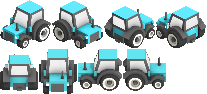
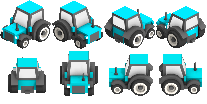
Enemy gatherer & scout sprites fixed
basically the same I did for the allied ones

diff --git a/Source/Motor2D/EnemyScout.cpp b/Source/Motor2D/EnemyScout.cpp
@@ -204,17 +204,64 @@ void EnemyScout::AttachHealthbarToEntity()
 
 void EnemyScout::InitUnitSpriteSections()
 {
-	entity_sprite_section = { 58, 0, 58, 47 };						//Down Right
+	//entity_sprite_section = { 58, 0, 58, 47 };						//Down Right
 
-	pathing_up_section = { 0, 47, 70, 52 };
-	pathing_down_section = { 71, 47, 70, 52 };
-	pathing_rigth_section = { 202, 47, 59, 52 };
-	pathing_left_section = { 142, 47, 59, 52 };
-	pathing_up_right_section = { 116, 0, 60, 47 };
-	pathing_up_left_section = { 176, 0, 59, 47 };
-	pathing_down_right_section = { 58, 0, 58, 47 };
-	pathing_down_left_section = { 0, 0, 58, 47 };
+	//pathing_up_section = { 0, 47, 70, 52 };
+	//pathing_down_section = { 71, 47, 70, 52 };
+	//pathing_rigth_section = { 202, 47, 59, 52 };
+	//pathing_left_section = { 142, 47, 59, 52 };
+	//pathing_up_right_section = { 116, 0, 60, 47 };
+	//pathing_up_left_section = { 176, 0, 59, 47 };
+	//pathing_down_right_section = { 58, 0, 58, 47 };
+	//pathing_down_left_section = { 0, 0, 58, 47 };
+
+	//	 --- LOADING FROM XML ---
+	pugi::xml_node sections = App->entities_file.child("entities").child("units").child("enemies").child("scout").child("sprite_sections");
+
+	pathing_up_section.x = sections.child("pathing_up").attribute("x").as_int();
+	pathing_up_section.y = sections.child("pathing_up").attribute("y").as_int();
+	pathing_up_section.w = sections.child("pathing_up").attribute("w").as_int();
+	pathing_up_section.h = sections.child("pathing_up").attribute("h").as_int();
+
+	pathing_down_section.x = sections.child("pathing_down").attribute("x").as_int();
+	pathing_down_section.y = sections.child("pathing_down").attribute("y").as_int();
+	pathing_down_section.w = sections.child("pathing_down").attribute("w").as_int();
+	pathing_down_section.h = sections.child("pathing_down").attribute("h").as_int();
+
+	pathing_rigth_section.x = sections.child("pathing_right").attribute("x").as_int();
+	pathing_rigth_section.y = sections.child("pathing_right").attribute("y").as_int();
+	pathing_rigth_section.w = sections.child("pathing_right").attribute("w").as_int();
+	pathing_rigth_section.h = sections.child("pathing_right").attribute("h").as_int();
+
+	pathing_left_section.x = sections.child("pathing_left").attribute("x").as_int();
+	pathing_left_section.y = sections.child("pathing_left").attribute("y").as_int();
+	pathing_left_section.w = sections.child("pathing_left").attribute("w").as_int();
+	pathing_left_section.h = sections.child("pathing_left").attribute("h").as_int();
+
+	pathing_up_right_section.x = sections.child("pathing_up_right").attribute("x").as_int();
+	pathing_up_right_section.y = sections.child("pathing_up_right").attribute("y").as_int();
+	pathing_up_right_section.w = sections.child("pathing_up_right").attribute("w").as_int();
+	pathing_up_right_section.h = sections.child("pathing_up_right").attribute("h").as_int();
+
+	pathing_up_left_section.x = sections.child("pathing_up_left").attribute("x").as_int();
+	pathing_up_left_section.y = sections.child("pathing_up_left").attribute("y").as_int();
+	pathing_up_left_section.w = sections.child("pathing_up_left").attribute("w").as_int();
+	pathing_up_left_section.h = sections.child("pathing_up_left").attribute("h").as_int();
+
+	pathing_down_right_section.x = sections.child("pathing_down_right").attribute("x").as_int();
+	pathing_down_right_section.y = sections.child("pathing_down_right").attribute("y").as_int();
+	pathing_down_right_section.w = sections.child("pathing_down_right").attribute("w").as_int();
+	pathing_down_right_section.h = sections.child("pathing_down_right").attribute("h").as_int();
+
+	pathing_down_left_section.x = sections.child("pathing_down_left").attribute("x").as_int();
+	pathing_down_left_section.y = sections.child("pathing_down_left").attribute("y").as_int();
+	pathing_down_left_section.w = sections.child("pathing_down_left").attribute("w").as_int();
+	pathing_down_left_section.h = sections.child("pathing_down_left").attribute("h").as_int();
+
+	//Default section
+	entity_sprite_section = pathing_down_right_section;
 }
+
 
 void EnemyScout::UpdateUnitSpriteSection()
 {

diff --git a/Source/Motor2D/EnemyGatherer.cpp b/Source/Motor2D/EnemyGatherer.cpp
@@ -193,7 +193,7 @@ void EnemyGatherer::AttachHealthbarToEntity()
 
 void EnemyGatherer::InitUnitSpriteSections()
 {
-	entity_sprite_section = { 52, 0, 52, 49 };
+	/*entity_sprite_section = { 52, 0, 52, 49 };
 
 	pathing_up_section = { 0, 49, 39, 42 };
 	pathing_down_section = { 39, 49, 38, 45 };
@@ -202,7 +202,53 @@ void EnemyGatherer::InitUnitSpriteSections()
 	pathing_up_right_section = { 104, 0, 52, 49 };
 	pathing_up_left_section = { 156, 0, 52, 49 };
 	pathing_down_right_section = { 52, 0, 52 ,49 };
-	pathing_down_left_section = { 0, 0, 52, 49 };
+	pathing_down_left_section = { 0, 0, 52, 49 };*/
+
+	//	 --- LOADING FROM XML ---
+	pugi::xml_node sections = App->entities_file.child("entities").child("units").child("enemies").child("gatherer").child("sprite_sections");
+
+	pathing_up_section.x = sections.child("pathing_up").attribute("x").as_int();
+	pathing_up_section.y = sections.child("pathing_up").attribute("y").as_int();
+	pathing_up_section.w = sections.child("pathing_up").attribute("w").as_int();
+	pathing_up_section.h = sections.child("pathing_up").attribute("h").as_int();
+
+	pathing_down_section.x = sections.child("pathing_down").attribute("x").as_int();
+	pathing_down_section.y = sections.child("pathing_down").attribute("y").as_int();
+	pathing_down_section.w = sections.child("pathing_down").attribute("w").as_int();
+	pathing_down_section.h = sections.child("pathing_down").attribute("h").as_int();
+
+	pathing_rigth_section.x = sections.child("pathing_right").attribute("x").as_int();
+	pathing_rigth_section.y = sections.child("pathing_right").attribute("y").as_int();
+	pathing_rigth_section.w = sections.child("pathing_right").attribute("w").as_int();
+	pathing_rigth_section.h = sections.child("pathing_right").attribute("h").as_int();
+
+	pathing_left_section.x = sections.child("pathing_left").attribute("x").as_int();
+	pathing_left_section.y = sections.child("pathing_left").attribute("y").as_int();
+	pathing_left_section.w = sections.child("pathing_left").attribute("w").as_int();
+	pathing_left_section.h = sections.child("pathing_left").attribute("h").as_int();
+
+	pathing_up_right_section.x = sections.child("pathing_up_right").attribute("x").as_int();
+	pathing_up_right_section.y = sections.child("pathing_up_right").attribute("y").as_int();
+	pathing_up_right_section.w = sections.child("pathing_up_right").attribute("w").as_int();
+	pathing_up_right_section.h = sections.child("pathing_up_right").attribute("h").as_int();
+
+	pathing_up_left_section.x = sections.child("pathing_up_left").attribute("x").as_int();
+	pathing_up_left_section.y = sections.child("pathing_up_left").attribute("y").as_int();
+	pathing_up_left_section.w = sections.child("pathing_up_left").attribute("w").as_int();
+	pathing_up_left_section.h = sections.child("pathing_up_left").attribute("h").as_int();
+
+	pathing_down_right_section.x = sections.child("pathing_down_right").attribute("x").as_int();
+	pathing_down_right_section.y = sections.child("pathing_down_right").attribute("y").as_int();
+	pathing_down_right_section.w = sections.child("pathing_down_right").attribute("w").as_int();
+	pathing_down_right_section.h = sections.child("pathing_down_right").attribute("h").as_int();
+
+	pathing_down_left_section.x = sections.child("pathing_down_left").attribute("x").as_int();
+	pathing_down_left_section.y = sections.child("pathing_down_left").attribute("y").as_int();
+	pathing_down_left_section.w = sections.child("pathing_down_left").attribute("w").as_int();
+	pathing_down_left_section.h = sections.child("pathing_down_left").attribute("h").as_int();
+
+	//Default section
+	entity_sprite_section = pathing_down_right_section;
 }
 
 void EnemyGatherer::UpdateUnitSpriteSection()
